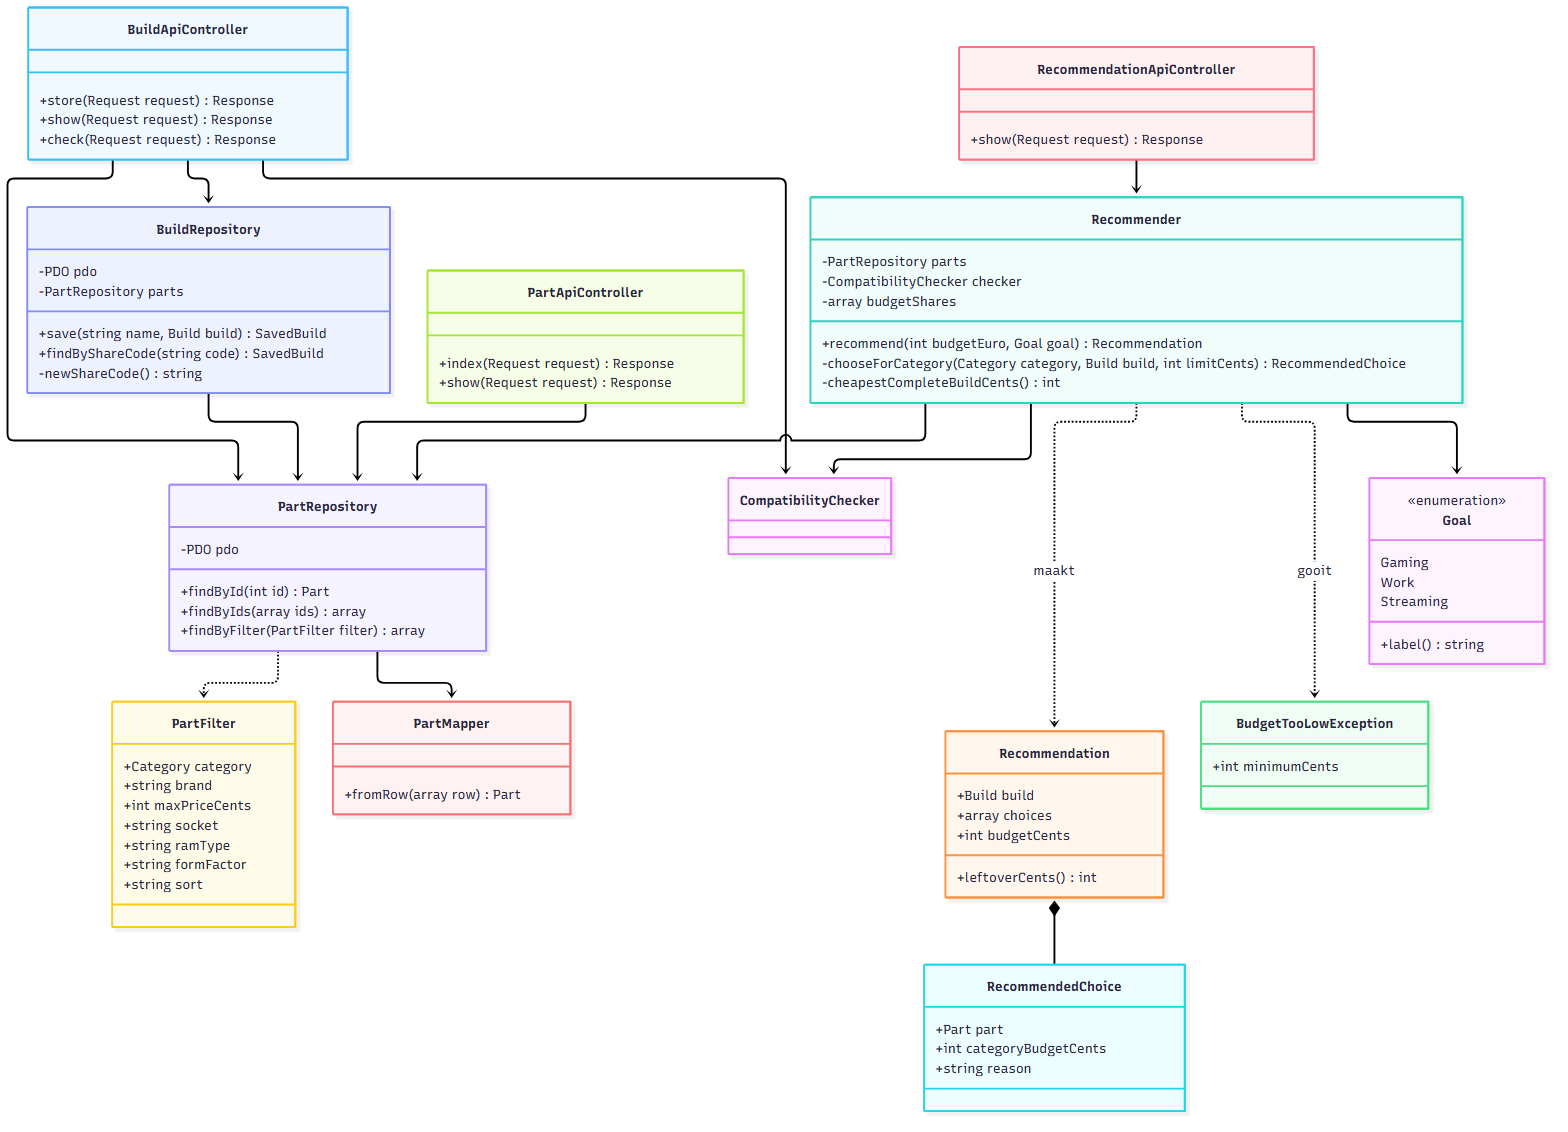
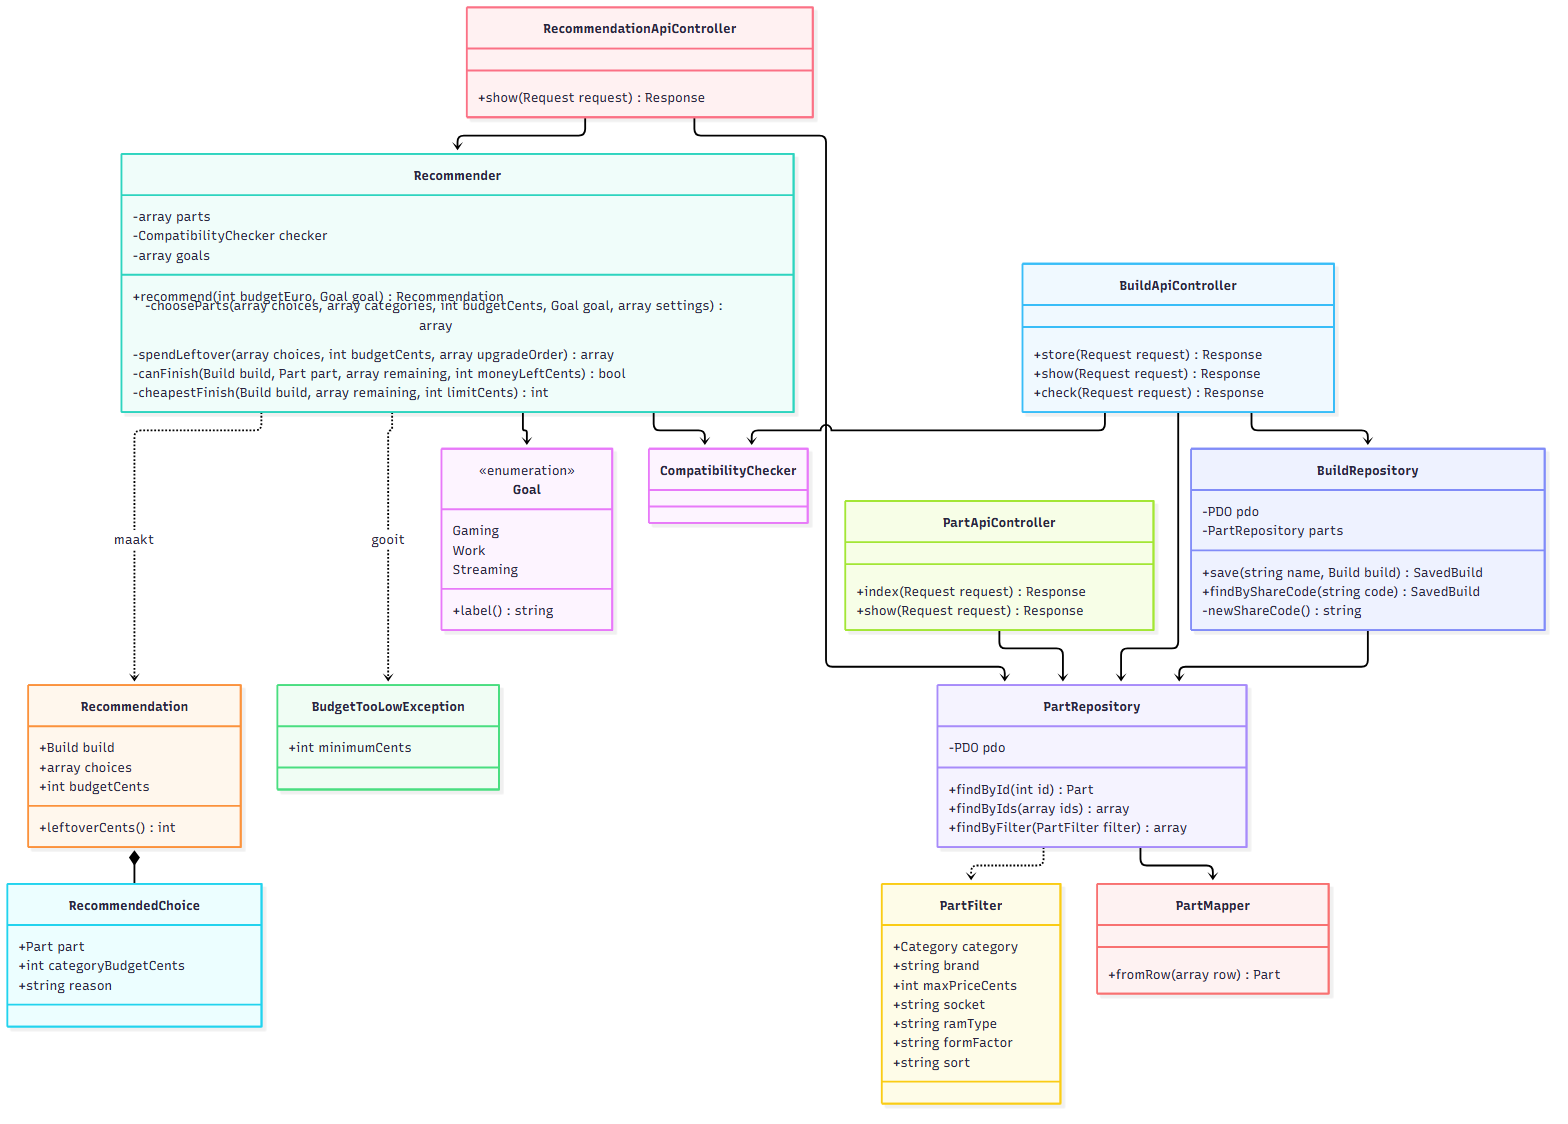
docs: aanbeveling in het ontwerp bijgewerkt (#16)

Changed region(s): [[0.0, 0.0, 1.0, 0.9964], [0.7188, 0.5605, 0.75, 0.5916]]

diff --git a/docs/ontwerp.md b/docs/ontwerp.md
@@ -19,7 +19,6 @@ flowchart TB
     api --> logica
     pages --> repos[Repositories]
     api --> repos
-    recommender --> repos
     repos --> db[(MySQL-database)]
 ```
 
@@ -217,8 +216,8 @@ classDiagram
         PcCase
         Storage
         Psu
-        +withArticle() string
         +label() string
+        +withArticle() string
         +stepNumber() int
     }
     class Part {
@@ -288,12 +287,14 @@ classDiagram
         +estimatedPowerW() int
         +isEmpty() bool
         +isComplete() bool
+        +parts() array
         +cpu() Cpu
         +motherboard() Motherboard
         +ram() RamKit
         +gpu() Gpu
         +cooler() Cooler
         +pcCase() PcCase
+        +storage() StorageDrive
         +psu() Psu
     }
     class SavedBuild {
@@ -322,7 +323,7 @@ De klasse voor een kast heet `PcCase`, omdat `case` in PHP een gereserveerd woor
 
 `Build` heeft voor elk onderdeel een eigen methode, zoals `cpu()` en `psu()`. Een eerdere versie van dit ontwerp had één methode `part(Category)`, maar die geeft alleen een `Part` terug. Met `cpu()` weet PHP dat het om een `Cpu` gaat, dus de regels kunnen `$build->cpu()->socket` gebruiken en de editor kent de velden. Deze methodes mag je alleen aanroepen als het onderdeel gekozen is, dat controleert de `CompatibilityChecker` eerst met `hasPart()`.
 
-`withPart` en `withoutPart` geven een nieuwe `Build` terug in plaats van de bestaande te veranderen. Zo kan de controle een onderdeel "proberen" zonder de echte build van de gebruiker aan te passen. Deze twee methodes en `isEmpty()` komen er pas bij met F-04, F-12 en F-14.
+`withPart` en `withoutPart` geven een nieuwe `Build` terug in plaats van de bestaande te veranderen. Zo kan de controle een onderdeel "proberen" zonder de echte build van de gebruiker aan te passen. De aanbeveling gebruikt `withPart` om onderdelen te proberen, `withoutPart` komt er met F-04.
 
 ### 4.2 Compatibiliteit
 
@@ -354,6 +355,8 @@ classDiagram
         +int totalPriceCents
         +int estimatedPowerW
         +overallStatus() OverallStatus
+        +hasProblems() bool
+        +toArray() array
     }
     class RuleResult {
         +string ruleName
@@ -408,12 +411,14 @@ classDiagram
         +label() string
     }
     class Recommender {
-        -PartRepository parts
+        -array parts
         -CompatibilityChecker checker
-        -array budgetShares
+        -array goals
         +recommend(int budgetEuro, Goal goal) Recommendation
-        -chooseForCategory(Category category, Build build, int limitCents) RecommendedChoice
-        -cheapestCompleteBuildCents() int
+        -chooseParts(array choices, array categories, int budgetCents, Goal goal, array settings) array
+        -spendLeftover(array choices, int budgetCents, array upgradeOrder) array
+        -canFinish(Build build, Part part, array remaining, int moneyLeftCents) bool
+        -cheapestFinish(Build build, array remaining, int limitCents) int
     }
     class Recommendation {
         +Build build
@@ -467,7 +472,6 @@ classDiagram
         +show(Request request) Response
     }
 
-    Recommender --> PartRepository
     Recommender --> CompatibilityChecker
     Recommender ..> Recommendation : maakt
     Recommender ..> BudgetTooLowException : gooit
@@ -481,6 +485,7 @@ classDiagram
     BuildApiController --> CompatibilityChecker
     BuildRepository --> PartRepository
     RecommendationApiController --> Recommender
+    RecommendationApiController --> PartRepository
 ```
 
 De paginacontrollers (`BuildPageController`, `RecommendationPageController`) gebruiken dezelfde repositories en logica als de API-controllers, maar geven HTML terug in plaats van JSON.
@@ -612,42 +617,51 @@ De voedingsregel heeft naast de voeding ook de processor nodig. Zonder processor
 
 ## 7. Aanbeveling
 
-De aanbeveling werkt met vaste regels. Er is geen AI of willekeur: dezelfde invoer geeft altijd dezelfde build.
+De aanbeveling werkt met vaste regels. Er is geen AI of willekeur: dezelfde invoer geeft altijd dezelfde build. De `Recommender` kent geen database, hij krijgt de lijst met onderdelen mee. Daardoor is hij goed te testen.
 
-### 7.1 Budgetverdeling per doel
+### 7.1 Instellingen per doel
 
 Het budget wordt per doel over de categorieën verdeeld. Deze percentages staan in `config/app.php`, zodat ik ze kan aanpassen zonder de code te veranderen.
 
 | Categorie | Gamen | Werken | Streamen |
 |---|---|---|---|
-| Processor | 20% | 32% | 28% |
-| Moederbord | 12% | 14% | 12% |
-| Geheugen | 8% | 14% | 10% |
-| Videokaart | 38% | 10% | 28% |
-| Koeler | 4% | 5% | 5% |
-| Kast | 6% | 8% | 6% |
-| Opslag | 6% | 10% | 6% |
-| Voeding | 6% | 7% | 5% |
+| Processor | 14% | 28% | 20% |
+| Moederbord | 6% | 9% | 7% |
+| Geheugen | 13% | 22% | 20% |
+| Videokaart | 50% | 20% | 38% |
+| Koeler | 3% | 3% | 3% |
+| Kast | 4% | 5% | 4% |
+| Opslag | 7% | 9% | 5% |
+| Voeding | 3% | 4% | 3% |
 
-Daarnaast heeft elk doel minimumeisen:
+De eerste versie van deze tabel gaf geheugen 8 tot 14%. Met de echte prijzen van oktober 2026 was dat te weinig, want 16 GB kost nu minimaal € 169. De percentages zijn aangepast nadat ik de aanbeveling op de echte onderdelen had gedraaid, zie het [testrapport](testrapport.md).
 
-| Doel | Minimaal geheugen | Minimale opslag |
-|---|---|---|
-| Gamen | 16 GB | 1000 GB |
-| Werken | 16 GB | 500 GB |
-| Streamen | 32 GB | 1000 GB |
+Daarnaast heeft elk doel minimumeisen en een eigen volgorde voor het restgeld:
+
+| Doel | Minimaal geheugen | Minimale opslag | Restgeld gaat naar |
+|---|---|---|---|
+| Gamen | 16 GB | 1000 GB | videokaart, processor, geheugen, opslag |
+| Werken | 16 GB | 500 GB | processor, geheugen, opslag |
+| Streamen | 32 GB | 1000 GB | processor, videokaart, geheugen, opslag |
+
+Bij werken krijgt de videokaart geen restgeld, want dat levert daar niets op. Je houdt dan liever geld over. Een moederbord moet minimaal 4 geheugensloten hebben, zodat je later geheugen kunt bijplaatsen. Daardoor kiest de aanbeveling geen Mini-ITX-borden: die zijn duur, maar niet sneller.
 
 ### 7.2 Stappen
 
-1. Controleer de invoer. Het budget moet een geheel getal groter dan 0 zijn en het doel moet bestaan. Anders volgt een foutmelding.
-2. Bereken wat de goedkoopste complete build kost. Is het budget lager, dan stopt de aanbeveling met de melding hoeveel er minimaal nodig is.
-3. Kies de onderdelen in deze volgorde: processor, moederbord, geheugen, videokaart, koeler, kast, opslag, voeding. De kast komt na de videokaart en de koeler omdat die er allebei in moeten passen. De voeding komt als laatste, omdat dan het verbruik van alle andere onderdelen bekend is.
-4. Per categorie:
-   1. **Kandidaten**: alle onderdelen in die categorie die geen fout geven met de onderdelen die al gekozen zijn. Dit gebruikt dezelfde `CompatibilityChecker` als de bouwplanner. Voor geheugen en opslag tellen alleen onderdelen die aan de minimumeisen van het doel voldoen.
-   2. **Limiet**: het deelbudget van de categorie, plus wat er bij eerdere categorieën over is gebleven. De limiet is nooit zo hoog dat er voor de categorieën die nog komen geen geld meer is voor het goedkoopste onderdeel.
-   3. **Keuze**: het duurste onderdeel dat binnen de limiet valt. Binnen een categorie is een duurder onderdeel meestal sneller of beter. Past er niets binnen de limiet, dan het goedkoopste kandidaat-onderdeel.
-   4. **Uitleg**: een zin met de reden, bijvoorbeeld "Gekozen omdat dit de beste videokaart is binnen het deelbudget van € 456 (38% van € 1.200)."
-5. Controleer de complete build nog één keer met de `CompatibilityChecker` en kijk of het totaal binnen het budget valt. Geef de build, de uitleg per onderdeel en het overgebleven bedrag terug.
+1. **Invoer controleren.** Het budget moet een geheel getal van 1 tot 100.000 zijn en het doel moet bestaan. Anders volgt een foutmelding.
+2. **Minimum bepalen.** `cheapestFinish()` rekent uit wat de goedkoopste complete build kost die aan de eisen van het doel voldoet. Is het budget lager, dan stopt de aanbeveling met het bedrag dat minimaal nodig is.
+3. **Onderdelen kiezen.** In deze volgorde: processor, moederbord, geheugen, videokaart, koeler, kast, opslag. De kast komt na de videokaart en de koeler omdat die er allebei in moeten passen. Per categorie:
+   1. **Kandidaten:** alle onderdelen die aan de minimumeisen voldoen en geen fout of waarschuwing geven met wat al gekozen is. Dit gebruikt dezelfde `CompatibilityChecker` als de bouwplanner.
+   2. **Deelbudget:** het percentage van het budget voor deze categorie.
+   3. **Vooruitkijken:** een onderdeel mag alleen als de build daarna nog af kan binnen het budget (`canFinish()`). Dit is nodig omdat keuzes elkaar beïnvloeden. Een AM5-processor kan in zijn deelbudget passen, maar dwingt je tot duur DDR5-geheugen.
+   4. **Keuze:** het duurste onderdeel binnen het deelbudget. Binnen een categorie is een duurder onderdeel meestal sneller of beter. Past er niets, dan het goedkoopste onderdeel waarmee de build nog af kan.
+   5. **Uitleg:** een zin met de reden, bijvoorbeeld "Beste videokaart binnen het deelbudget van € 1.000."
+4. **Restgeld besteden.** Wat over is gaat naar de onderdelen die voor dit doel het belangrijkst zijn. Per onderdeel uit de volgorde van het doel kijkt de `Recommender` of een duurder onderdeel past en betaalbaar is.
+5. **Voeding kiezen.** De voeding komt als laatste, omdat dan het verbruik vaststaat. Een betere videokaart kan een zwaardere voeding nodig hebben. Daar houdt stap 4 rekening mee.
+
+De uitkomst is de build, de uitleg per onderdeel en het bedrag dat over is.
+
+`cheapestFinish()` probeert de combinaties van de categorieën die nog over zijn, van goedkoop naar duur. Is een pad duurder dan de beste oplossing tot nu toe, dan stopt het op dat pad. Alle combinaties proberen zou ruim 2 miljoen mogelijkheden zijn, zo blijft een aanbeveling onder de 20 milliseconden.
 
 ## 8. REST API
 
@@ -690,6 +704,9 @@ Foutcodes die de API teruggeeft:
 | 422 | `duplicate_category` | Twee onderdelen in dezelfde categorie |
 | 422 | `invalid_name` | Naam is leeg of langer dan 60 tekens |
 | 422 | `empty_build` | Build zonder onderdelen opslaan |
+| 422 | `invalid_budget` | Budget is geen geheel getal van 1 tot 100.000 |
+| 422 | `invalid_goal` | Doel ontbreekt of bestaat niet |
+| 422 | `budget_too_low` | Budget is lager dan de goedkoopste complete build |
 | 500 | `server_error` | Onverwachte fout op de server |
 
 Een onderdeel in een antwoord ziet er zo uit. Wat in `specs` staat, hangt af van de categorie:
@@ -713,7 +730,7 @@ Een onderdeel in een antwoord ziet er zo uit. Wat in `specs` staat, hangt af van
 }
 ```
 
-`GET /api/parts` geeft `count` en een lijst `parts` terug. Zijn er geen resultaten, dan is dat gewoon een 200 met `count` 0. `POST /api/builds` en `GET /api/builds/{code}` geven `share_code`, `url`, `name`, `created_at`, `parts` en `check` terug, waarbij `check` hetzelfde is als het antwoord van de controle hieronder.
+`GET /api/parts` geeft `count` en een lijst `parts` terug. Zijn er geen resultaten, dan is dat gewoon een 200 met `count` 0. `POST /api/builds` en `GET /api/builds/{code}` geven `share_code`, `url`, `name`, `created_at`, `parts` en `check` terug, waarbij `check` hetzelfde is als het antwoord van de controle hieronder. `GET /api/recommendation` geeft `goal`, `budget_eur`, `leftover_eur`, `choices` en `check` terug. Elke keuze in `choices` heeft `part`, `category_budget_eur` en `reason`.
 
 Voorbeeld van een controle:
 
